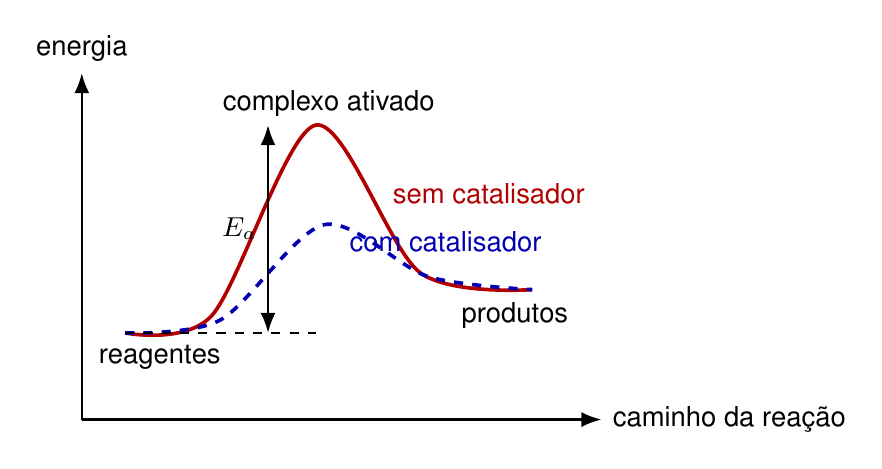
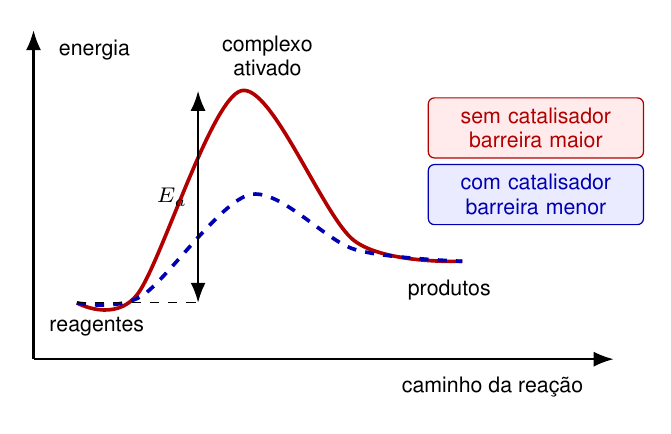
Ajusta textos em figuras TikZ de cinetica

Changed region(s): [[0.0298, 0.0599, 0.9538, 0.9286], [0.9538, 0.3894, 0.9836, 0.5092], [0.9538, 0.2396, 0.9836, 0.3594]]

diff --git a/Quimica/2serie/unidade-4-cinetica-quimica/figuras_cap03_teoria-das-colisoes.tex b/Quimica/2serie/unidade-4-cinetica-quimica/figuras_cap03_teoria-das-colisoes.tex
@@ -8,33 +8,48 @@
 \begin{document}
 
 \tikzset{every node/.append style={font=\sffamily\small}}
-\begin{tikzpicture}[x=1cm,y=1cm,>=Latex]
-  \draw[->,thick] (0,0) -- (6,0) node[right] {caminho da reação};
-  \draw[->,thick] (0,0) -- (0,4) node[above] {energia};
-  \draw[very thick,red!70!black] plot[smooth] coordinates {(0.5,1.0) (1.5,1.2) (2.7,3.4) (3.9,1.7) (5.2,1.5)};
-  \draw[very thick,blue!70!black,dashed] plot[smooth] coordinates {(0.5,1.0) (1.6,1.15) (2.8,2.25) (4.0,1.65) (5.2,1.5)};
-  \draw[dashed] (0.5,1.0) -- (2.7,1.0);
-  \draw[<->,thick] (2.15,1.0) -- (2.15,3.4) node[midway,left] {$E_a$};
-  \node at (2.85,3.65) {complexo ativado};
-  \node[red!70!black] at (4.7,2.6) {sem catalisador};
-  \node[blue!70!black] at (4.2,2.05) {com catalisador};
-  \node at (0.9,0.72) {reagentes};
-  \node at (5.0,1.2) {produtos};
+\begin{tikzpicture}[x=1cm,y=1cm,>=Latex,
+  every node/.append style={font=\sffamily\scriptsize}]
+  \draw[->,thick] (0.45,0.45) -- (7.15,0.45);
+  \node[align=center] at (5.75,0.12) {caminho da reação};
+  \draw[->,thick] (0.45,0.45) -- (0.45,4.25);
+  \node[anchor=west] at (0.62,4.02) {energia};
+
+  \draw[very thick,red!70!black] plot[smooth] coordinates {(0.95,1.1) (1.65,1.2) (2.85,3.55) (4.15,1.82) (5.4,1.58)};
+  \draw[very thick,blue!70!black,dashed] plot[smooth] coordinates {(0.95,1.1) (1.7,1.18) (2.95,2.35) (4.15,1.72) (5.4,1.58)};
+
+  \draw[dashed] (0.95,1.1) -- (2.35,1.1);
+  \draw[<->,thick] (2.35,1.1) -- (2.35,3.55);
+  \node[align=center] at (2.05,2.32) {$E_a$};
+
+  \node[align=center] at (3.15,3.95) {complexo\\ativado};
+  \node[align=center] at (1.18,0.82) {reagentes};
+  \node[align=center] at (5.25,1.25) {produtos};
+
+  \node[draw=red!70!black,rounded corners=2pt,fill=red!8,text=red!70!black,align=center,text width=2.25cm] at (6.25,3.12)
+    {sem catalisador\\barreira maior};
+  \node[draw=blue!70!black,rounded corners=2pt,fill=blue!8,text=blue!70!black,align=center,text width=2.25cm] at (6.25,2.35)
+    {com catalisador\\barreira menor};
 \end{tikzpicture}
 
-\begin{tikzpicture}[x=1cm,y=1cm,>=Latex]
-  \node[draw,circle,fill=blue!10,minimum size=0.75cm] (a1) at (0,1.4) {A};
-  \node[draw,circle,fill=orange!15,minimum size=0.75cm] (b1) at (2.2,1.4) {B};
-  \draw[->,very thick] (a1) -- (0.85,1.4);
-  \draw[->,very thick] (b1) -- (1.35,1.4);
-  \node[draw,rounded corners=2pt,fill=green!12,align=center] at (4.2,1.4) {orientação correta\\produto};
-  \draw[->,thick] (2.65,1.4) -- (3.25,1.4);
-  \node[draw,circle,fill=blue!10,minimum size=0.75cm] (a2) at (0,-0.4) {A};
-  \node[draw,circle,fill=orange!15,minimum size=0.75cm] (b2) at (2.2,-0.4) {B};
-  \draw[->,very thick] (a2) -- (0.85,-0.05);
-  \draw[->,very thick] (b2) -- (1.35,-0.75);
-  \node[draw,rounded corners=2pt,fill=red!10,align=center] at (4.2,-0.4) {orientação ruim\\sem produto};
-  \draw[->,thick] (2.65,-0.4) -- (3.25,-0.4);
-  \node[align=center] at (2.2,-1.45) {energia suficiente precisa vir\\com encaixe molecular adequado};
+\begin{tikzpicture}[x=1cm,y=1cm,>=Latex,
+  every node/.append style={font=\sffamily\scriptsize},
+  card/.style={draw,rounded corners=2pt,align=center,text width=2.7cm,minimum height=0.72cm}]
+  \node[draw,circle,fill=blue!10,minimum size=0.7cm] (a1) at (0.35,2.15) {A};
+  \node[draw,circle,fill=orange!15,minimum size=0.7cm] (b1) at (2.45,2.15) {B};
+  \draw[->,very thick] (a1.east) -- (1.1,2.15);
+  \draw[->,very thick] (b1.west) -- (1.7,2.15);
+  \draw[->,thick] (2.85,2.15) -- (3.55,2.15);
+  \node[card,fill=green!12] at (5.05,2.15) {orientação correta\\forma produto};
+
+  \node[draw,circle,fill=blue!10,minimum size=0.7cm] (a2) at (0.35,0.55) {A};
+  \node[draw,circle,fill=orange!15,minimum size=0.7cm] (b2) at (2.45,0.55) {B};
+  \draw[->,very thick] (a2.east) -- (1.1,0.92);
+  \draw[->,very thick] (b2.west) -- (1.7,0.18);
+  \draw[->,thick] (2.85,0.55) -- (3.55,0.55);
+  \node[card,fill=red!10] at (5.05,0.55) {orientação ruim\\não forma produto};
+
+  \node[draw,rounded corners=2pt,fill=gray!8,align=center,text width=5.8cm,inner sep=4pt] at (3.0,-0.62)
+    {energia suficiente precisa vir\\com encaixe molecular adequado};
 \end{tikzpicture}
 \end{document}

diff --git a/Quimica/2serie/unidade-4-cinetica-quimica/figuras_cap02_fatores-que-afetam-a-velocidade.tex b/Quimica/2serie/unidade-4-cinetica-quimica/figuras_cap02_fatores-que-afetam-a-velocidade.tex
@@ -43,17 +43,21 @@
 \end{tikzpicture}
 
 \begin{tikzpicture}[x=1cm,y=1cm,>=Latex]
-  \draw[fill=blue!10,very thick] (0,0) rectangle (1.4,1.4);
-  \node[below] at (0.7,-0.15) {inteiro};
-  \foreach \x/\y in {2.3/0.15,2.95/0.15,2.3/0.8,2.95/0.8}{
-    \draw[fill=green!12,very thick] (\x,\y) rectangle +(0.45,0.45);
+  \draw[fill=blue!10,very thick] (0,0.55) rectangle (1.45,2.0);
+  \node[align=center] at (0.72,0.18) {inteiro};
+
+  \foreach \x/\y in {3.05/0.65,3.75/0.65,3.05/1.35,3.75/1.35}{
+    \draw[fill=green!12,very thick] (\x,\y) rectangle +(0.46,0.46);
   }
-  \node[below] at (2.75,-0.15) {quebrado};
-  \foreach \x/\y in {4.2/0.1,4.75/0.25,5.3/0.1,4.35/0.8,4.95/0.95,5.5/0.75}{
-    \draw[fill=orange!18,very thick] (\x,\y) rectangle +(0.25,0.25);
+  \node[align=center] at (3.63,0.18) {quebrado};
+
+  \foreach \x/\y in {6.0/0.65,6.65/0.82,7.3/0.65,6.2/1.42,6.95/1.58,7.6/1.32}{
+    \draw[fill=orange!18,very thick] (\x,\y) rectangle +(0.28,0.28);
   }
-  \node[below] at (4.95,-0.15) {triturado};
-  \draw[->,thick] (0.7,1.75) -- node[above] {área exposta aumenta} (4.95,1.75);
-  \node[align=center] at (2.9,-0.85) {mais superfície permite mais contato\\com o reagente};
+  \node[align=center] at (6.98,0.18) {triturado};
+
+  \draw[->,thick] (0.72,2.38) -- node[above] {área exposta aumenta} (6.98,2.38);
+  \node[draw,rounded corners=2pt,fill=gray!8,align=center,text width=6.5cm,inner sep=4pt] at (3.85,-0.62)
+    {mais superfície permite mais contato\\com o reagente};
 \end{tikzpicture}
 \end{document}
